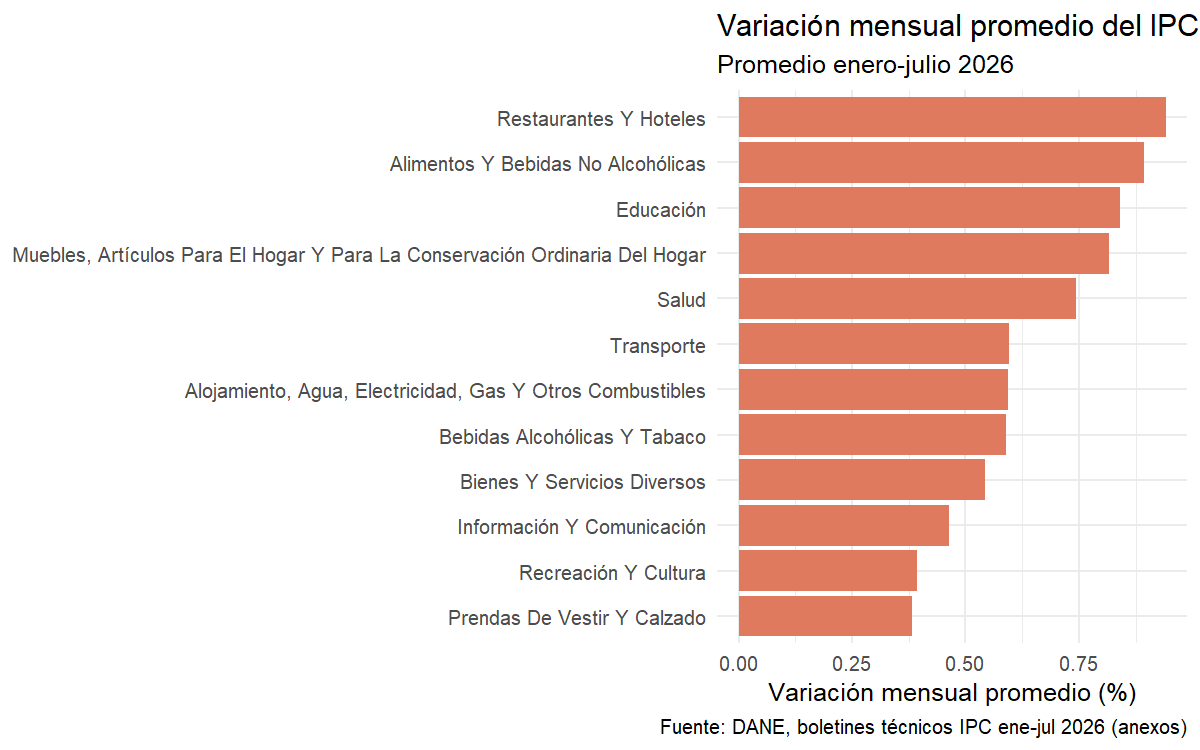
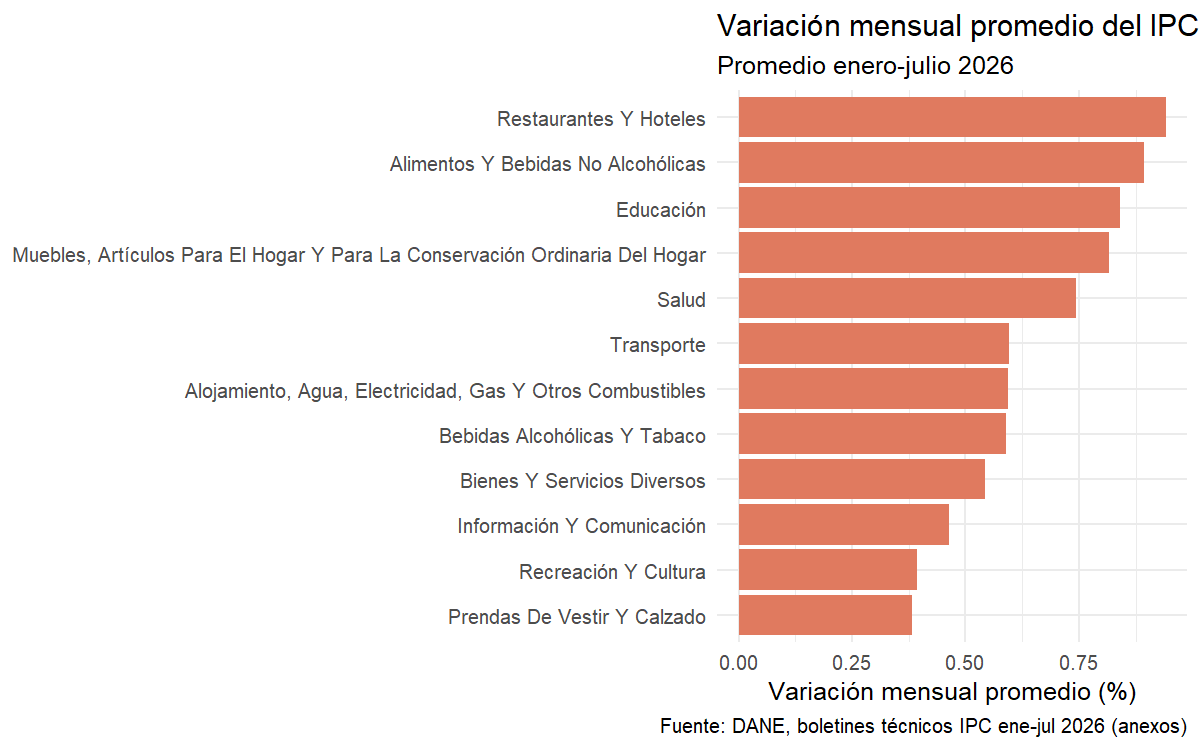
readme

diff --git a/README.md b/README.md
@@ -1,117 +1,143 @@
 # Flujo de trabajo reproducible: IPC Colombia (DANE)
 
-Trabajo aplicado individual — Preparación digital 
+Trabajo aplicado individual — Preparación digital
 
-## Objetivo
+## De qué se trata esto
 
-Construir un flujo de trabajo reproducible de extremo a extremo (adquisición → limpieza →
-análisis exploratorio → visualización) sobre el **Índice de Precios al Consumidor (IPC)**
-publicado por el DANE, y plantear una idea de intervención a partir de los hallazgos.
+Quería armar, de principio a fin, un flujo de trabajo con el que cualquiera
+pueda repetir lo que hice: descargar los datos, limpiarlos, explorarlos y
+sacarles unos gráficos. Trabajé con el **Índice de Precios al Consumidor
+(IPC)** que publica el DANE cada mes, y con lo que fui encontrando, se me
+ocurrió una idea de intervención que también dejo planteada aquí.
 
-## Fuente de datos
+## De dónde saqué los datos
 
-- **Entidad:** DANE (Departamento Administrativo Nacional de Estadística)
-- **Serie:** Índice de Precios al Consumidor (IPC) — boletines técnicos mensuales (archivo "Anexo")
-- **Periodo cubierto:** enero a julio de 2026 (7 archivos, uno por mes)
-- **Página oficial:** https://www.dane.gov.co/index.php/estadisticas-por-tema/precios-y-costos/indice-de-precios-al-consumidor-ipc/ipc-historico
-- **Formato:** Excel (.xlsx), descarga directa, sin necesidad de API ni credenciales
-- **Nota:** cada archivo anexo trae, entre otras hojas, la variación del IPC total
-  (hoja "1") y el detalle por división de bienes y servicios (hoja "2")
-  correspondientes a ese mes. El notebook combina los 7 archivos para construir
-  la serie mensual enero-julio 2026.
+Usé los boletines técnicos que publica el DANE cada mes con el IPC — los
+llaman "anexos" y se pueden descargar directamente de su página, sin
+necesidad de ninguna clave ni permiso especial:
 
-## Estructura de carpetas
+https://www.dane.gov.co/index.php/estadisticas-por-tema/precios-y-costos/indice-de-precios-al-consumidor-ipc/ipc-historico
+
+Tomé los siete meses que iban de enero a julio de 2026. Cada anexo viene en
+Excel y trae, entre otras cosas, la variación del IPC total (en una hoja) y
+el detalle por cada tipo de gasto —vivienda, alimentos, transporte, etc.—
+en otra. Junté los siete archivos para armar una sola serie mensual.
+
+## Cómo dejé organizada la carpeta
 
 ```
 ipc/
-├── ipc.Rproj                      <- proyecto de RStudio (ábrelo con doble clic)
+├── ipc.Rproj                      <- el proyecto de RStudio (ábrelo con doble clic)
 ├── README.md                      <- este archivo
 ├── datos/
-│   ├── crudos/                    <- los 7 archivos .xlsx descargados del DANE, SIN modificar
+│   ├── crudos/                    <- los 7 Excel tal como los bajé del DANE, sin tocar
 │   │                                  (anex-IPC-ene2026.xlsx ... anex-IPC-jul2026.xlsx)
-│   └── procesados/                <- datos limpios y combinados (salida del notebook):
-│                                      serie_total_ipc.csv, divisiones_ipc.csv
+│   └── procesados/                <- ya limpios: serie_total_ipc.csv, divisiones_ipc.csv
 ├── notebook/
-│   └── analisis_ipc.Rmd           <- flujo completo: carga, limpieza, EDA, visualización
+│   └── analisis_ipc.Rmd           <- todo el trabajo: cargar, limpiar, explorar, graficar
 ├── documentacion/
-│   └── informe_tecnico.Rmd        <- informe técnico (máx. 6 páginas), con las 6 secciones
-└── salidas/
-    └── (gráficos .png generados por el notebook: 01_tendencia_ipc.png,
-         02_divisiones_julio.png, 03_promedio_divisiones.png)
+│   └── informe_tecnico.Rmd        <- el informe escrito
+├── salidas/
+│   └── (los gráficos en .png que salen del notebook)
+└── entrega/
+    └── entrega_informe_ipc.pdf    <- el informe ya terminado, listo para entregar
 ```
 
-## Qué contiene cada carpeta
+## Qué hay en cada carpeta
 
-- **`datos/crudos/`**: los archivos originales del DANE, exactamente como se descargaron,
-  sin ninguna edición manual. Son la única fuente de verdad de los datos crudos.
-- **`datos/procesados/`**: los datos ya limpios, combinados en dos tablas (`serie_total_ipc.csv`
-  con la variación mensual del IPC total, y `divisiones_ipc.csv` con el detalle por división
-  de gasto). Se generan automáticamente al correr el notebook — no se editan a mano.
-- **`notebook/`**: el código en R que hace todo el trabajo: lee los archivos crudos, los limpia,
-  calcula estadísticas descriptivas y genera las visualizaciones.
-- **`documentacion/`**: el informe técnico final en formato Rmd (y su versión en PDF una vez
-  generado), con la interpretación de los resultados y la idea de intervención.
-- **`salidas/`**: las imágenes de los gráficos generados por el notebook, usadas tanto en el
-  informe técnico como en el dashboard/visualización final.
+- **`datos/crudos/`**: los Excel originales, exactamente como los descargué,
+  sin editarlos a mano.
+- **`datos/procesados/`**: los datos ya limpios y juntos, listos para usar.
+  Estos los genera solo el notebook, no los toco directamente.
+- **`notebook/`**: el código en R, donde está todo el trabajo — leer los
+  archivos, limpiarlos, sacar estadísticas y hacer los gráficos.
+- **`documentacion/`**: el informe escrito, con lo que encontré y la idea
+  de intervención.
+- **`salidas/`**: las imágenes de los gráficos, las mismas que uso en el
+  informe y en la sustentación.
+- **`entrega/`**: la versión final del informe, ya en PDF.
 
-## Pasos exactos para reproducir el flujo completo
+## Cómo repetir lo que hice, paso a paso
 
-1. **Descargar los datos crudos**
-   - Ir a la página oficial del DANE (enlace arriba) → boletines técnicos mensuales del IPC
-     → descargar el archivo "Anexo" (.xlsx) de cada mes que se quiera incluir.
-   - Guardar los 7 archivos, sin modificarlos, en `datos/crudos/` con sus nombres originales
-     (ej. `anex-IPC-ene2026.xlsx`, `anex-IPC-feb2026.xlsx`, ..., `anex-IPC-jul2026.xlsx`).
+1. **Bajar los datos**
+   Entrar a la página del DANE (el enlace de arriba) y descargar el archivo
+   "Anexo" de cada mes que se quiera incluir. Guardarlos, sin tocarlos, en
+   `datos/crudos/`, con sus nombres originales.
 
 2. **Abrir el proyecto en RStudio**
-   - **Importante:** abrir el proyecto haciendo doble clic en `ipc.Rproj` (no abrir el .Rmd
-     suelto desde el explorador de archivos). Esto asegura que las rutas a los datos
-     funcionen igual sea que se ejecuten los chunks uno por uno o que se use "Knit".
-   - Instalar los paquetes necesarios (solo la primera vez; si R avisa que algún paquete
-     está "en uso", reiniciar la sesión con Session → Restart R y reintentar):
-     ```r
-     install.packages(c("here", "readxl", "dplyr", "tidyr", "purrr", "stringr", "ggplot2", "scales"))
-     ```
-   - Para generar el informe técnico en PDF también se necesita una distribución de LaTeX
-     (ya instalada en este equipo vía `tinytex::install_tinytex()`).
+   Ojo con esto: hay que abrir `ipc.Rproj` con doble clic, no el `.Rmd`
+   suelto desde el explorador de archivos — así las rutas a los datos
+   funcionan bien. La primera vez hay que instalar los paquetes que uso:
+   ```r
+   install.packages(c("here", "readxl", "dplyr", "tidyr", "purrr", "stringr", "ggplot2", "scales"))
+   ```
+   Para sacar el informe en PDF también hace falta tener LaTeX instalado
+   (yo lo instalé con `tinytex::install_tinytex()`).
 
-3. **Ejecutar el notebook de análisis**
-   - Abrir `notebook/analisis_ipc.Rmd`.
-   - Ejecutar todos los chunks en orden (Run → Run All), o hacer clic en "Knit".
-   - Este script:
-     - Carga los 7 archivos crudos desde `datos/crudos/` y los combina en una sola serie mensual.
-     - Limpia y estructura los datos (extrae el mes desde el nombre del archivo, filtra el año
-       2026, corrige nombres de columnas y de divisiones).
-     - Guarda el resultado limpio en `datos/procesados/serie_total_ipc.csv` y
-       `datos/procesados/divisiones_ipc.csv`.
-     - Calcula estadísticas descriptivas (resumen de la variación mensual y anual).
-     - Genera las tres visualizaciones y las guarda como .png en `salidas/`.
+3. **Correr el notebook**
+   Abrir `notebook/analisis_ipc.Rmd` y correr todos los chunks en orden, o
+   darle "Knit". Esto lee los 7 archivos, los limpia, guarda las tablas
+   limpias en CSV, saca unas estadísticas rápidas y genera los tres
+   gráficos en `salidas/`.
 
-4. **Generar el informe técnico**
-   - Abrir `documentacion/informe_tecnico.Rmd`.
-   - Revisar y completar cada sección con los resultados obtenidos en el paso 3.
-   - Hacer clic en "Knit to PDF" para generar el PDF final (máx. 6 páginas, sin contar
-     portada ni referencias).
+4. **Armar el informe**
+   Abrir `documentacion/informe_tecnico.Rmd`, completar cada parte con lo
+   que salió del notebook, y darle "Knit to PDF". La versión que terminé
+   entregando quedó guardada en `entrega/entrega_informe_ipc.pdf`.
 
-5. **Dashboard / visualizaciones finales**
-   - Los tres gráficos generados en `salidas/` (tendencia del IPC, variación por división en
-     julio, y promedio por división del periodo) cumplen el mínimo de dos visualizaciones
-     distintas que pide la guía, con títulos, ejes y unidades claros para una persona sin
-     formación técnica.
+## Qué hace cada parte del notebook (`analisis_ipc.Rmd`)
 
-## Historial de versiones
+**Chunk 1 — Cargar las librerías.** Acá cargo todo lo que voy a necesitar:
+`here` para que las rutas funcionen sin importar en qué computador esté
+trabajando, `readxl` para leer los Excel del DANE, `dplyr` y `tidyr` para
+acomodar los datos, `purrr` para no repetir el mismo código 7 veces (una
+por archivo), `stringr` para limpiar texto, y `ggplot2` con `scales` para
+los gráficos.
 
-Este proyecto se entrega en dos momentos de avance (ver control de versiones / Git, o los
-archivos fechados si no se usa Git):
+**Chunk 2 — Ver dónde estoy parada.** Solo corro `getwd()` para confirmar
+en qué carpeta está trabajando R antes de seguir.
 
-- **Entrega 1:** adquisición + limpieza de datos (carpeta `datos/` completa, notebook
-  ejecutado hasta la sección de análisis exploratorio).
-- **Entrega 2:** análisis exploratorio + visualizaciones + idea de intervención + informe
-  técnico completo.
+**Chunk 3 — Buscar los archivos.** Busco los 7 Excel dentro de
+`datos/crudos/`. También armo una tablita que traduce la abreviatura del
+nombre del archivo —tipo "jul"— al nombre completo del mes, y una función
+que saca esa abreviatura del nombre del archivo, para no escribirla a mano
+cada vez.
 
-## Alcance y limitaciones
+**Chunk 4 — Leer la serie total.** Armo una función que lee la hoja donde
+está la serie total del IPC de cada Excel, la aplico a los 7 archivos de
+una vez, y junto todo en una sola tabla ordenada por fecha.
 
-Este ejercicio evalúa el proceso de construcción de un flujo de datos reproducible y el
-planteamiento de una idea de intervención — **no** la estimación de un modelo econométrico,
-ni el diseño o evaluación formal de la intervención propuesta (eso se profundiza en
-Econometría Básica y en Evaluación de Impacto). El periodo analizado (enero-julio de 2026)
-es corto, por lo que no permite observar estacionalidad ni tendencias de largo plazo.
+**Chunk 5 — Leer el detalle por división.** Lo mismo, pero para la hoja
+que trae el detalle por cada división de gasto. Tuve que apuntar a un
+rango de celdas específico porque esa hoja trae más columnas de las que
+necesito.
+
+**Chunk 6 — Armar la tabla de divisiones.** Aplico la función anterior a
+los 7 archivos, limpio algunos nombres que traían espacios de más, y armo
+la tabla final con el detalle de las 12 divisiones en los 7 meses.
+
+**Chunk 7 — Revisar que no falte nada.** Reviso que las dos tablas tengan
+el número de filas que deberían tener y que no haya ningún dato vacío. Ya
+con eso, guardo ambas como CSV para no tener que releer los Excel cada vez.
+
+**Chunk 8 — Mirar los números en general.** Saco mínimo, máximo, promedio
+y cuartiles de la variación mensual y anual, solo para tener una idea
+general antes de graficar.
+
+**Chunk 9 — Primer gráfico.** Muestra cómo se mueve la variación mensual
+comparada con la anual a lo largo de los 7 meses. Lo guardo como imagen.
+
+**Chunk 10 — Segundo gráfico.** Me quedo solo con julio, el mes más
+reciente, y muestro cuánto subió o bajó cada división ese mes.
+
+**Chunk 11 — Tercer gráfico.** Ahora miro el promedio de los 7 meses
+completos, para ver qué divisiones subieron más en promedio y no solo en
+el último mes.
+
+## Hasta dónde llega esto
+
+Este trabajo se queda en armar el flujo de datos y plantear la idea de
+intervención — no llegué a estimar ningún modelo, ni a diseñar o evaluar
+la intervención a fondo. El periodo que miré (enero-julio de 2026) es
+corto, así que no alcanza para ver patrones de estacionalidad o
+tendencias de más largo plazo.
